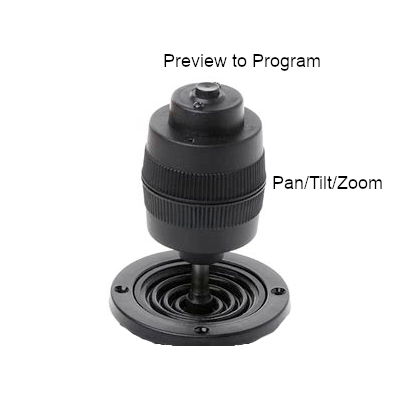
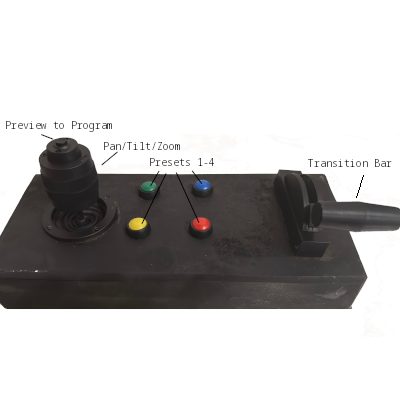
1.0beta7: Support RP2040 based Homebrew controller Fix T-bar handling cleanup

diff --git a/controller.py b/controller.py
@@ -3,7 +3,7 @@
 #
 from enum import IntEnum
 import time
-from typing import Union, Dict
+from typing import Dict
 
 import pygame
 import pygame.event
@@ -158,7 +158,7 @@ class BaseControllerDef:
         except KeyError:
             return None
 
-    def value(self, key):
+    def value(self, key) -> None | int | str :
         try:
             return self.dict[key][1]
         except KeyError:
@@ -200,9 +200,9 @@ class Controller:
         #
         # lists of defined buttons/axes/hats per controller
         #
-        self.buttons: list[Union[ControllerButton, None]] = []
-        self.axes: list[Union[ControllerAxis, None]] = []
-        self.hats: list[Union[ControllerHat, None]] = []
+        self.buttons: list[ControllerButton|None] = []
+        self.axes: list[ControllerAxis|None] = []
+        self.hats: list[ControllerHat|None] = []
 
         #
         # map button functions to actions
@@ -401,15 +401,18 @@ def setup_controller(controller: Controller):
     if controller.dead_zone is not None:
         dead_zone = controller.dead_zone # configuration override default
     controller.set_help_text(device.value("HELP"))
-    controller.set_help_image(file_path(device.value("HELP_IMAGE")))
+    controller.set_help_image(file_path(str(device.value("HELP_IMAGE"))))
 
     try:
-        controller.buttons[device.value("CAMERA_SELECT_1")] =  ControllerButton(controller,
-                                                                                ControlFunc.CAMERA_SELECT, 1)
+        # noinspection PyTypeChecker
+        controller.buttons[device.value("CAMERA_SELECT_1")] =  ControllerButton(controller, ControlFunc.CAMERA_SELECT, 1)
+        # noinspection PyTypeChecker
         controller.buttons[device.value("CAMERA_SELECT_2")] = ControllerButton(controller,
                                                                                ControlFunc.CAMERA_SELECT, 2)
+        # noinspection PyTypeChecker
         controller.buttons[device.value("CAMERA_SELECT_3")] = ControllerButton(controller,
                                                                                ControlFunc.CAMERA_SELECT, 3)
+        # noinspection PyTypeChecker
         controller.buttons[device.value("CAMERA_SELECT_4")] = ControllerButton(controller, ControlFunc.CAMERA_SELECT, 4)
     except TypeError:
         pass
@@ -417,79 +420,116 @@ def setup_controller(controller: Controller):
     t = device.type("BRIGHTNESS_UP")
     if t == "button":
         v = device.value("BRIGHTNESS_UP")
+        # noinspection PyTypeChecker
         controller.buttons[v] = ControllerButton(controller, ControlFunc.BRIGHTNESS_UP)
     t = device.type("BRIGHTNESS_DOWN")
     if t == "button":
         v = device.value("BRIGHTNESS_DOWN")
+        # noinspection PyTypeChecker
         controller.buttons[v] = ControllerButton(controller, ControlFunc.BRIGHTNESS_DOWN)
 
     t = device.type("AUTO_FOCUS")
     if t == "button":
         v = device.value("AUTO_FOCUS")
+        # noinspection PyTypeChecker
         controller.buttons[v] = ControllerButton(controller, ControlFunc.AUTOFOCUS)
 
     t = device.type("WHITE_BALANCE")
     if t == "button":
+        # noinspection PyTypeChecker
         controller.buttons[device.value("WHITE_BALANCE")] = ControllerButton(controller,
                                                                              ControlFunc.WHITE_BALANCE)
     t = device.type("PREV2PROG")
     if t == "button":
+        # noinspection PyTypeChecker
         controller.buttons[device.value("PREV2PROG")] = ControllerButton(controller,
                                                                          ControlFunc.PREV2PROG)
 
     v = device.value("PREV2PROG2")
     if v is not None:
+        # noinspection PyTypeChecker
         controller.buttons[v] = ControllerButton(controller, ControlFunc.PREV2PROG)
 
     v = device.value("PAN")
     if v is not None:
+        # noinspection PyTypeChecker
         axis = ControllerAxis(controller, ControlFunc.PANTILT, v, dead_zone=dead_zone)
-        controller.axes[v] = axis
         controller.pan_axis = axis
+        try:
+            # noinspection PyTypeChecker
+            controller.axes[v] = axis
+        except IndexError:
+            pass
 
     v = device.value("TILT")
     if v is not None:
+        # noinspection PyTypeChecker
         axis = ControllerAxis(controller, ControlFunc.PANTILT, v, dead_zone=dead_zone)
-        controller.axes[v] = axis
         controller.tilt_axis = axis
+        try:
+            # noinspection PyTypeChecker
+            controller.axes[v] = axis
+        except IndexError:
+            pass
+
 
     v = device.value("ZOOM")
     if v is not None:
+        # noinspection PyTypeChecker
         axis = ControllerAxis(controller, ControlFunc.ZOOM, v,
                               invert=device.value("INVERT_ZOOM"), dead_zone=dead_zone)
-        controller.axes[v] = axis
+        try:
+            # noinspection PyTypeChecker
+            controller.axes[v] = axis
+        except IndexError:
+            pass
 
     v = device.value("TBAR")
     if v is not None:
+        # noinspection PyTypeChecker
         axis = ControllerAxis(controller, ControlFunc.TBAR, v, dead_zone=0)
-        controller.axes[v] = axis
+        try:
+            # noinspection PyTypeChecker
+            controller.axes[v] = axis
+        except IndexError:
+            pass
 
     t = device.type("FOCUS_NEAR")
     if t == "axis":
         v = device.value("FOCUS_NEAR")
+        # noinspection PyTypeChecker
         axis = ControllerAxis(controller, ControlFunc.FOCUS_NEAR, v, dead_zone=dead_zone)
+        # noinspection PyTypeChecker
         controller.axes[v] = axis
 
     t = device.type("FOCUS_FAR")
     if t == "axis":
         v = device.value("FOCUS_FAR")
+        # noinspection PyTypeChecker
         axis = ControllerAxis(controller, ControlFunc.FOCUS_FAR, v, dead_zone=dead_zone)
+        # noinspection PyTypeChecker
         controller.axes[v] = axis
 
     t = device.type("FOCUS")
     if t == "hat":
         v = device.value("FOCUS")
+        # noinspection PyTypeChecker
         controller.hats[v] = ControllerHat(controller, ControlFunc.FOCUS, 0)
 
     t = device.type("PRESETS")
     if t == "hat":
         v = device.value("PRESETS")
+        # noinspection PyTypeChecker
         controller.hats[v] = ControllerHat(controller, ControlFunc.PRESET, v)
     elif t == "button":
         button_num = device.value("PRESETS")
+        # noinspection PyTypeChecker
         for v in range(device.value("NUM_PRESETS")):
-            controller.buttons[button_num + v] = ControllerButton(controller, ControlFunc.PRESET, v+1)
-
+            # noinspection PyTypeChecker
+            try:
+                controller.buttons[button_num + v] = ControllerButton(controller, ControlFunc.PRESET, v+1)
+            except IndexError:
+                pass
 
 #
 # Handle a pygame event

diff --git a/main.py b/main.py
@@ -177,11 +177,8 @@ def handle_tbar(axis: ControllerAxis):
     pos = int(round((pos + 1) / 2, 2) * 100)
 
     if pos == 100:
-        # prev2prog
-        bitfocus.pushbutton(*config.companion(1, 1))
         axis.invert *= -1  # flip axis
-    else:
-        bitfocus.t_bar(pos, config.companion_host())
+    bitfocus.t_bar(pos, config.companion_host())
 
 def handle_prev2prog(button: ControllerButton=None):
     """"

diff --git a/config.py b/config.py
@@ -7,7 +7,7 @@ import PySimpleGUI as Sg
 g_Debug = False
 
 g_Progname = "VISCA Game Controller"
-g_ProgVers = "1.0beta6"
+g_ProgVers = "1.0beta7"
 
 g_num_cams = 8
 cam_ips = ['127.0.0.1']*g_num_cams
@@ -142,7 +142,7 @@ def load_config():
         configure()
 
 credits_text = """
-Dan Tappan (https://dantappan.net) - (c) 2024, 2025
+Dan Tappan (https://dantappan.net) - (c) 2024, 2025, 2026
 
 Written/debugged using PyCharm Community Edition 
     https://www.jetbrains.com/pycharm/

diff --git a/version_info.rs b/version_info.rs
@@ -14,7 +14,7 @@ VSVersionInfo(
                         StringStruct(u'LegalCopyright', u'Copyright (c) 2024,2025,2026, Dan Tappan'),
                         StringStruct(u'OriginalFilename', u'VISCA-Game-Controller.exe'),
                         StringStruct(u'ProductName', u'viscacontroller'),
-                        StringStruct(u'ProductVersion', u'1.0beta6')])
+                        StringStruct(u'ProductVersion', u'1.0beta7')])
                     ]
         ),
         VarFileInfo([VarStruct(u'Translation', [1033, 1200])])